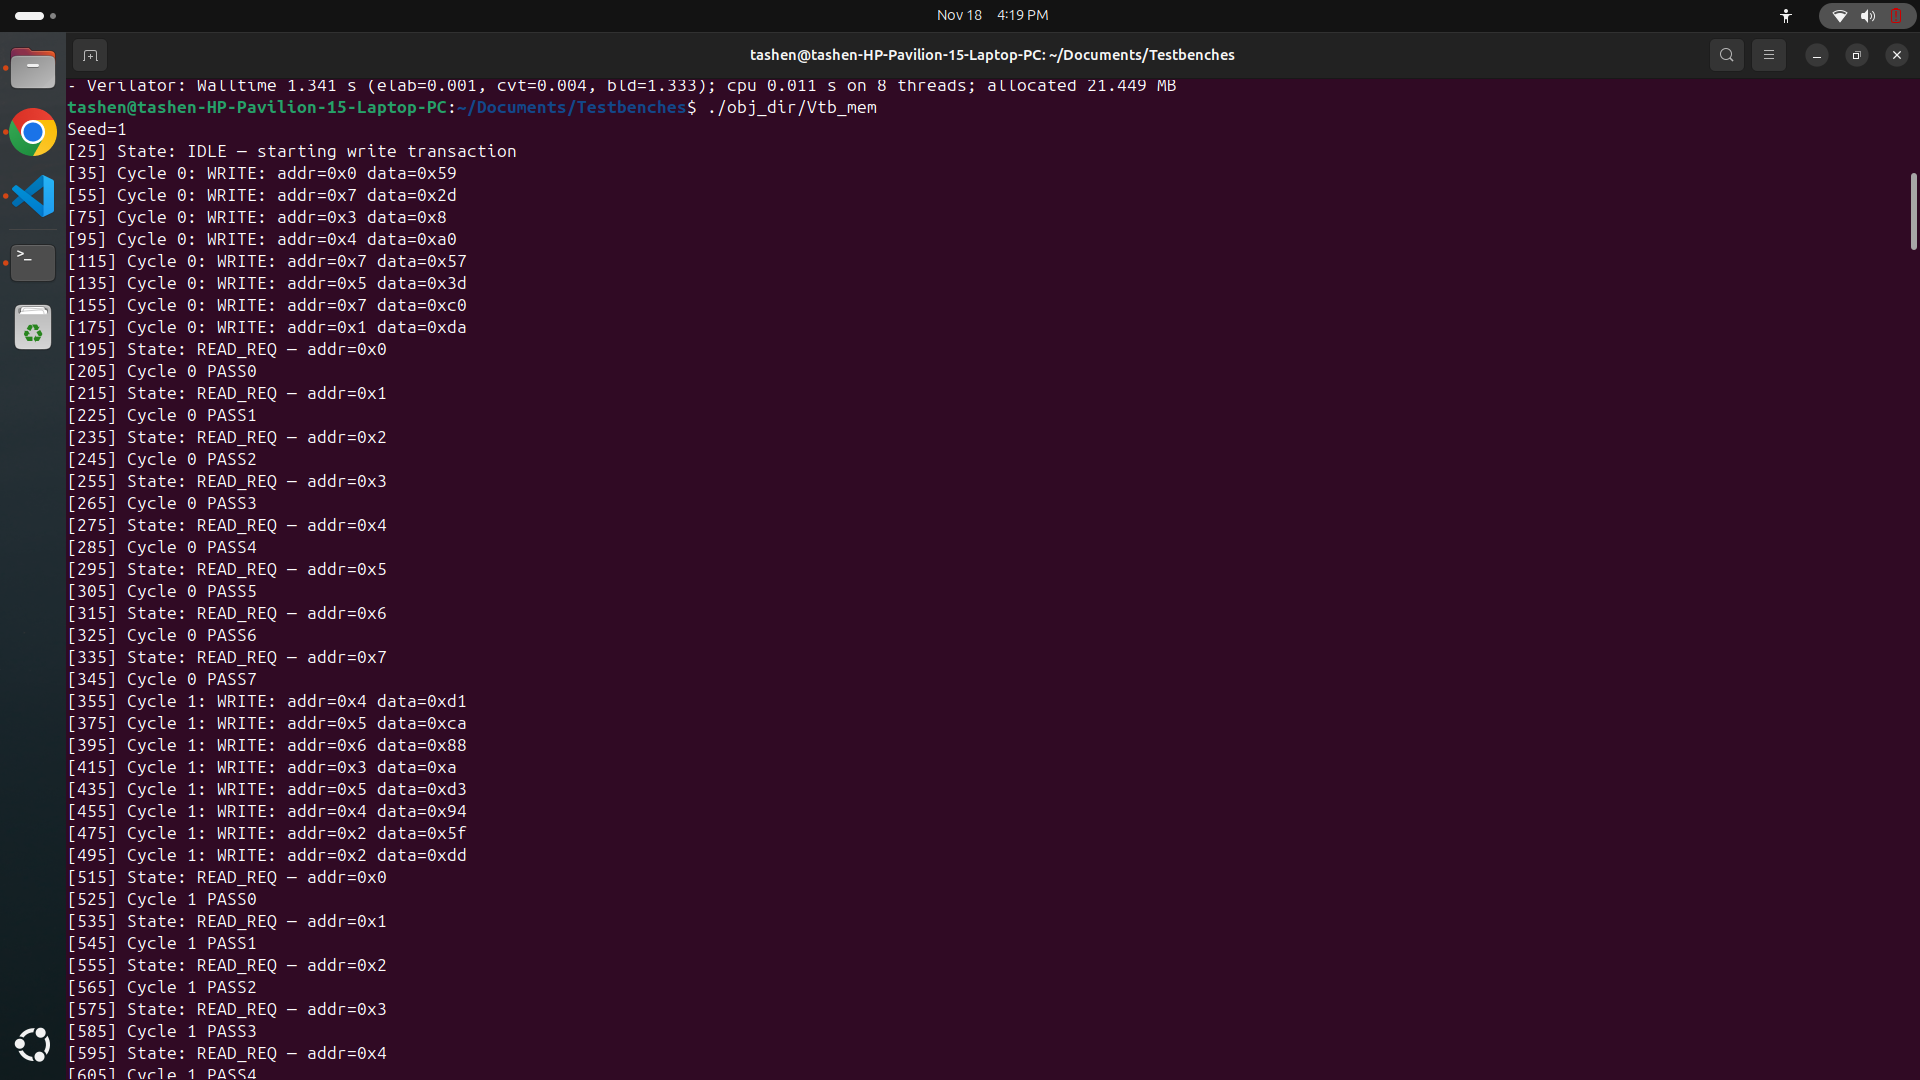
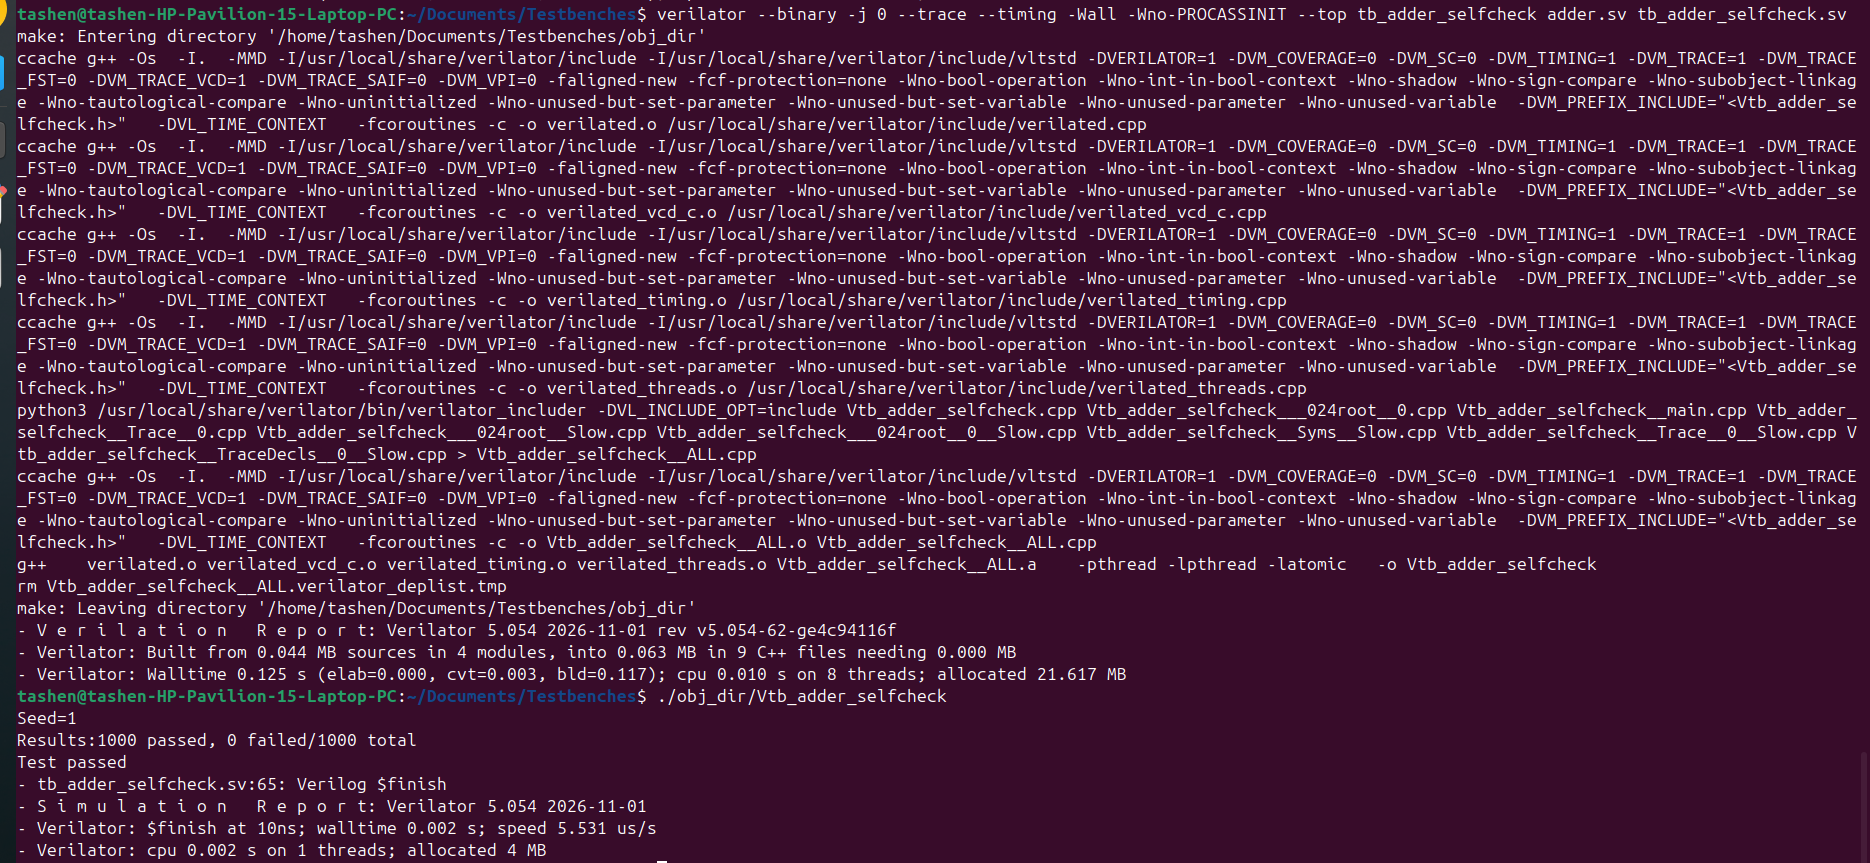
Challeng 2 is done

Changed region(s): [[0.0, 0.0, 1.0, 1.0]]

diff --git a/README.md b/README.md
@@ -1,6 +1,6 @@
 # Testbench-designs-
 
-This project contains set of systemverilog challenges related to one linear random testbench architecture and Selfchecking testbench. These testbenches are simulated by using open source IC design tools  such as Verilator and waveforms are generated via GTK Wave.
+This project contains set of systemverilog challenges related to one linear random testbench architecture and three Selfchecking testbench. These testbenches are simulated by using open source IC design tools  such as Verilator and waveforms are generated via GTK Wave.
 
 
 # Linear random testbench 
@@ -9,6 +9,7 @@ This project contains set of systemverilog challenges related to one linear rand
 
 This is a Linear random testbench for the 8x8 synchronous memory with acknowledge handshake.
 
+In this design tb_mem.sv will be the testbench and mem_dut.sv will be the dut file.
 This testbench has modified it to use random addresses and data instead of the fixed values addr=4, wr_data=0xA5.The testbench has run 20 random write-then-read cycles. Each cycle selects a random 3-bit address (0–7) and a random 8-bit data value, writes them to the memory, reads them back from the same address, and verifies the read-back transactions. Here $urandom has utilized to generate both values and print the seed at the begining of the run.
 
 State machine of the testbench follows the below stages as a single  transaction. 
@@ -24,3 +25,24 @@ verilator --binary -j 0 --trace --timing -Wall -Wno-PROCASSINIT --top tb_mem mem
 
 ![alt text](image.png)
 
+
+# Selfchecking testbench 
+
+# Challenge 2
+
+Self-Checking a Combinational DUT
+
+ In this design tb_adder_selfcheck.sv will be the testbench and adder.sv will be the dut file. This is a  4-bit adder. The checker is straightforward. This reference model computes a + b + cin in the testbench and compare against {cout, sum} from the DUT.
+
+ $fatal is stronger than $error. $error records the failure and continues useful when developer want to count all failures across the full run. $fatal stops the simulation immediately  useful at the end.
+
+ # Simulation steps
+
+verilator --binary -j 0 --trace --timing -Wall -Wno-PROCASSINIT --top tb_adder_selfcheck adder.sv tb_adder_selfcheck.sv
+
+.obj_sv/tb_adder_selfcheck
+
+# Simulaton Results
+
+
+![alt text](image.png)
